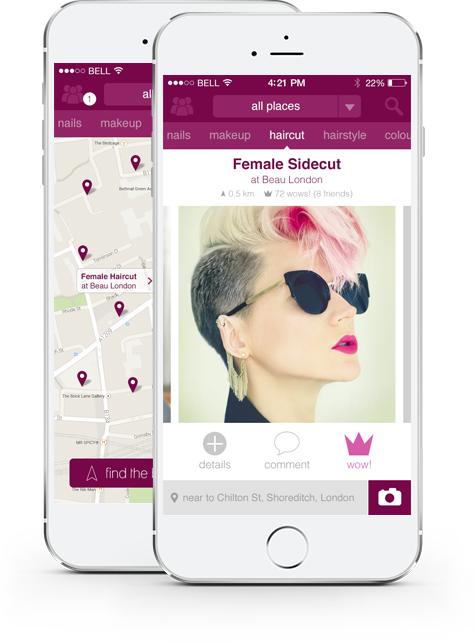
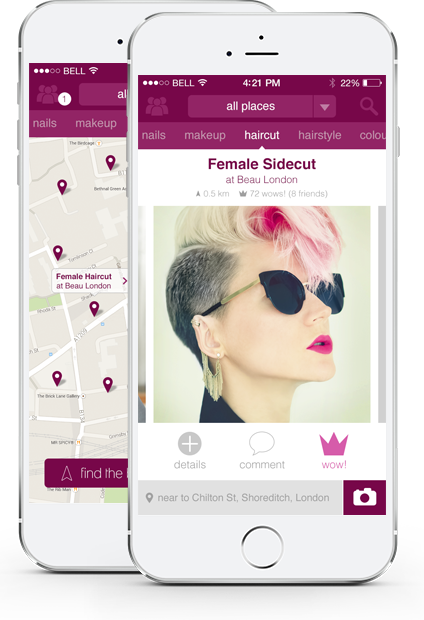
Refactored homepage

diff --git a/beautboss/app/assets/stylesheets/application.css.scss b/beautboss/app/assets/stylesheets/application.css.scss
@@ -20,13 +20,20 @@
 html,
 body {
   font-family: sans-serif;
+  /*margin-bottom: 60px;*/
 }
 
 .footer {
   position: absolute;
   bottom: 0;
   width: 100%;
-  height: 80px;
+  height: 60px;
+}
+
+.home {
+  background-image: image-url("background-home.png"); 
+  background-repeat: repeat-x;
+  min-height: 300px;
 }
 
 div {
@@ -81,6 +88,19 @@ div {
 }
 
 .content-home {
+  background-image: url(/assets/content-background-45e69b84e66fb863ceaae60f1e3be29fcef156edf57df26fbe212d59d74dff15.png);
+  background-repeat: no-repeat;
+  background-position: top;
+  background-color: #ffffff;
+  z-index: 999;
+  width: 530px;
+  min-width: 530px;
+  min-height: 320px;
+  margin-top: 38px;
+  margin-left: 10px;
+}
+
+/*.content-home {
   position: relative;
   top: 165px;
   left: 200px;
@@ -95,7 +115,7 @@ div {
   margin-left: auto; 
   margin-right: auto;
   align-items: top;
-}
+}*/
 
 .form-control {
   box-shadow: none;
@@ -184,7 +204,8 @@ div {
   color: #770749;
   font-family: sans-serif;
   font-weight: 200;
-  font-size: 38px;
+  /*font-size: 40px;*/
+  font-size: 2.8em;
 }
 
 .subtitle {
@@ -253,7 +274,7 @@ div {
 }
 
 .bottom-links {
-  padding-top: 32px;
+  padding-top: 10px;
   color: #770749;
   text-decoration: none;
   font-family: sans-serif;
@@ -297,16 +318,29 @@ div {
   height: 70px;
 }
 
-.screenshot {
+/*.screenshot {
   position: absolute;
   top: 37px;
   z-index: 999;
   align-self: baseline;
+}*/
+
+.screenshot {
+  margin-top: 48px;
+  margin-left: 0;
+  margin-right: 0;
+  margin-bottom: 20px;
 }
 
 .app-store-button {
   width: 135px;
   height: 40px;
+  margin: 10px;
+}
+
+.app-store-button-large {
+  width: 205px;
+  height: 56px;
   margin: 10px;
 }
 
@@ -322,6 +356,7 @@ div {
   font-weight: 100;
   font-size: 22px;
   text-decoration: none;
+  vertical-align: middle;
 }
 
 .username-text, .username-text:hover, .username-text:active, .username-text:focus {
